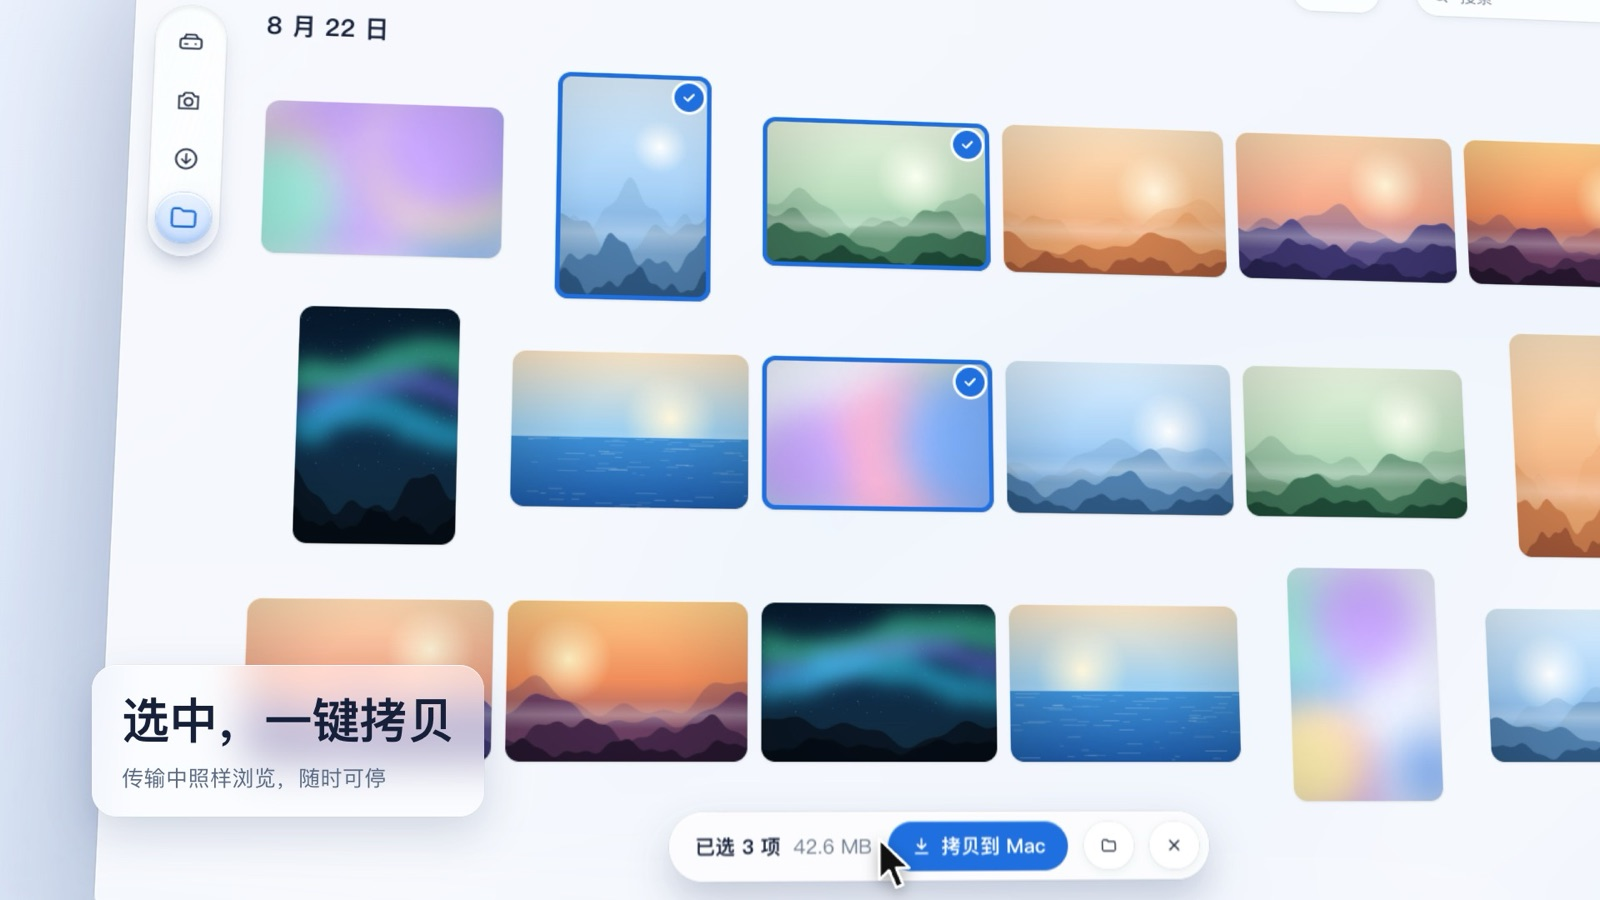
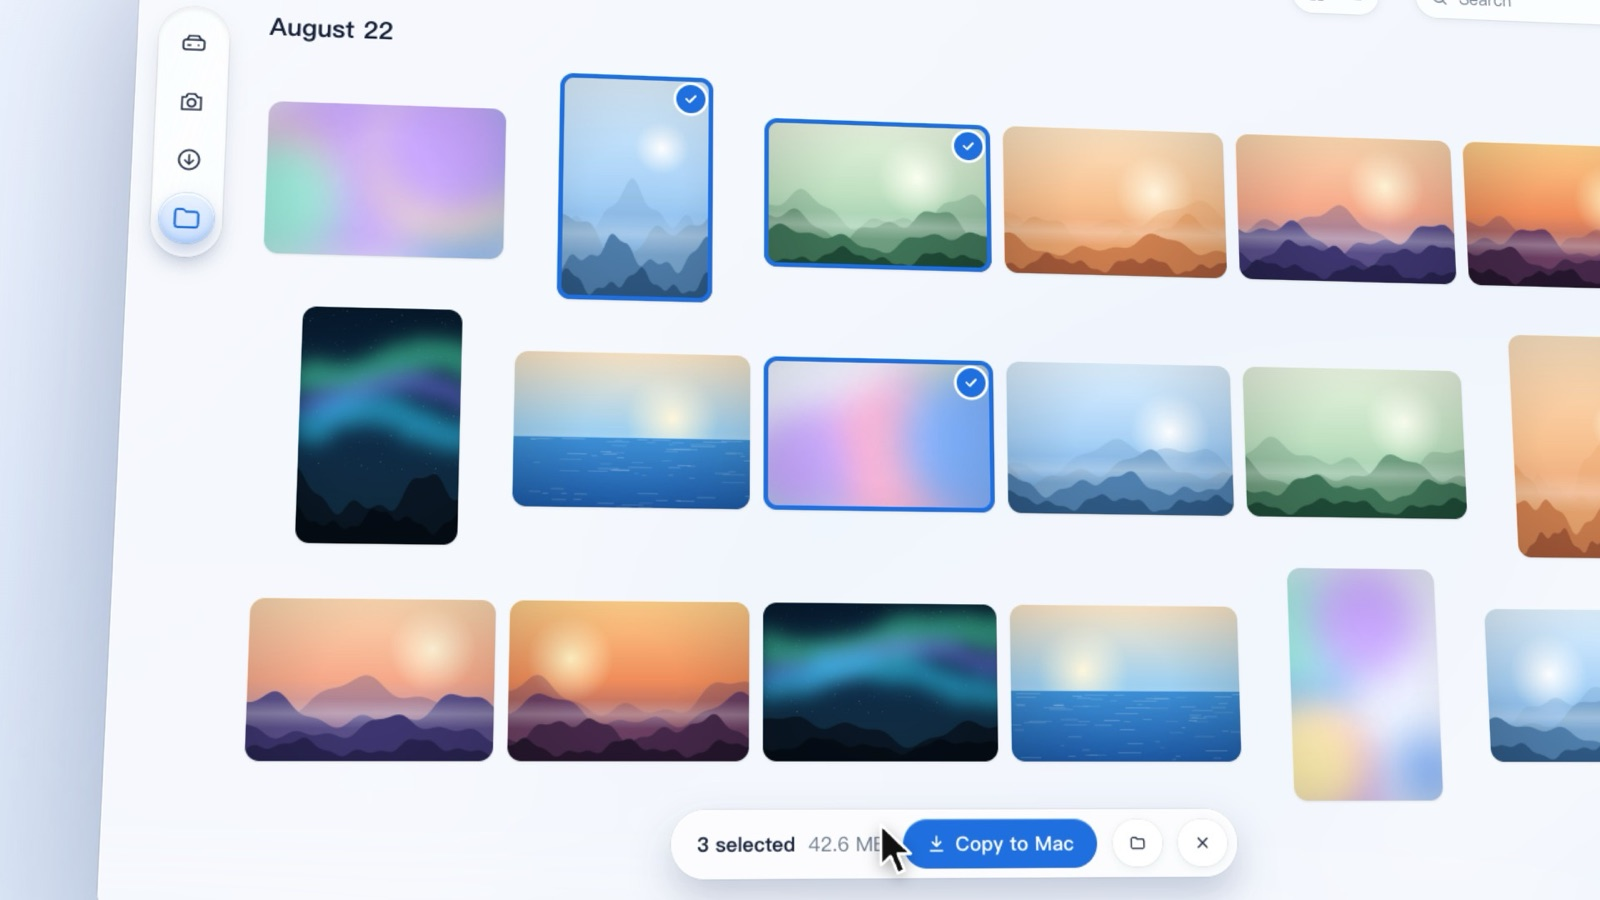
Rename to DropPulse; English and Chinese READMEs
- App, bundle id (io.github.zjulhc-pixel.droppulse), menus, cache folder and
  sources are now DropPulse.
- README is English only, with a separate Chinese README; proper nouns such as
  Android and Mac stay in English in both.
- The README image shows the English interface without captions.

diff --git a/Sources/DropPulse/Store.swift b/Sources/DropPulse/Store.swift
@@ -7,7 +7,7 @@ enum ViewMode: String { case icons, list }
 
 /// User preferences, shared with `@AppStorage` in SettingsView.
 enum Prefs {
-    static var importFolder: URL { folder("importFolder", .picturesDirectory, "Droplet") }
+    static var importFolder: URL { folder("importFolder", .picturesDirectory, "DropPulse") }
     static var copyFolder: URL { folder("copyFolder", .downloadsDirectory, nil) }
     static var showHidden: Bool { UserDefaults.standard.bool(forKey: "showHidden") }
     static var revealAfterCopy: Bool { UserDefaults.standard.object(forKey: "revealAfterCopy") as? Bool ?? true }
@@ -89,7 +89,7 @@ enum Prefs {
     var creatingFolder = false
     var replacePrompt: (count: Int, answer: CheckedContinuation<Bool?, Never>)?
 
-    let cacheDir = FileManager.default.urls(for: .cachesDirectory, in: .userDomainMask)[0].appending(path: "Droplet")
+    let cacheDir = FileManager.default.urls(for: .cachesDirectory, in: .userDomainMask)[0].appending(path: "DropPulse")
     private var takenCache: [String: Double] = [:]       // capture time, or emptyMark
     private(set) var emptyFiles = Set<String>()          // all zeros on the phone (unfinished copies): hidden
     private static let emptyMark = -1.0
@@ -124,7 +124,7 @@ enum Prefs {
                     let serial = MTP.serial(of: service)
                     // macOS's image capture daemon grabs phones as they're plugged in. It restarts on
                     // demand, so it is safe to stop; any other app is left alone and named instead.
-                    if let owner = MTP.owner(of: service), owner.name != "Droplet" {
+                    if let owner = MTP.owner(of: service), owner.name != "DropPulse" {
                         if owner.name == "ptpcamerad" {
                             kill(owner.pid, SIGKILL)
                             try? await Task.sleep(for: .milliseconds(200))
@@ -396,7 +396,7 @@ enum Prefs {
             transfer.total = files.reduce(0) { $0 + $1.item.size }
             // Copy into a staging folder on the same volume, then move with Finder-style
             // unique names, so nothing on the Mac is ever overwritten or left half-written.
-            let stage = folder.appending(path: ".droplet-\(UUID().uuidString)")
+            let stage = folder.appending(path: ".droppulse-\(UUID().uuidString)")
             defer { try? FileManager.default.removeItem(at: stage) }
             for (item, relative) in files {
                 let target = stage.appending(path: relative)

diff --git a/Sources/DropPulse/DropPulseApp.swift b/Sources/DropPulse/DropPulseApp.swift
@@ -2,17 +2,17 @@ import ServiceManagement
 import SwiftUI
 
 @main
-struct DropletApp: App {
+struct DropPulseApp: App {
     @NSApplicationDelegateAdaptor private var delegate: AppDelegate
     private let store = Store.shared
 
     var body: some Scene {
-        Window("Droplet", id: "main") {
+        Window("DropPulse", id: "main") {
             RootView()
         }
         .defaultSize(width: 1120, height: 740)
         .defaultLaunchBehavior(.suppressed)          // MenuBarIcon decides: not when started at login
-        .commands { DropletCommands(store: store) }
+        .commands { DropPulseCommands(store: store) }
 
         MenuBarExtra {
             MenuPanel()
@@ -27,7 +27,7 @@ struct DropletApp: App {
     }
 }
 
-/// Droplet starts at login and waits in the menu bar, so plugging in a phone opens it.
+/// DropPulse starts at login and waits in the menu bar, so plugging in a phone opens it.
 final class AppDelegate: NSObject, NSApplicationDelegate {
     @MainActor static var launch: (done: Bool, atLogin: Bool) = (false, false)
 
@@ -77,7 +77,7 @@ private struct MenuBarIcon: View {
     }
 }
 
-private struct DropletCommands: Commands {
+private struct DropPulseCommands: Commands {
     let store: Store
     @AppStorage("sidebarMode") private var sidebarMode = SidebarMode.full
 
@@ -154,8 +154,8 @@ struct SettingsView: View {
             }
             Section {
                 Toggle(isOn: $openOnConnect) {
-                    Text("Open Droplet when a phone connects")
-                    Text("Droplet waits in the menu bar after you log in.")
+                    Text("Open DropPulse when a phone connects")
+                    Text("DropPulse waits in the menu bar after you log in.")
                 }
                 .onChange(of: openOnConnect) { AppDelegate.updateLoginItem() }
                 Toggle("Show hidden files", isOn: $showHidden)

diff --git a/Sources/DropPulse/MTP.swift b/Sources/DropPulse/MTP.swift
@@ -31,7 +31,7 @@ struct MTPError: LocalizedError {
     init(_ message: String) { errorDescription = message }
 }
 
-/// A small MTP initiator on top of IOUSBHost — just what Droplet needs from an Android phone.
+/// A small MTP initiator on top of IOUSBHost — just what DropPulse needs from an Android phone.
 /// The actor runs on its own serial queue, so blocking USB I/O never stalls Swift's thread pool.
 /// Large reads are split into chunks with a yield between them, so browsing and thumbnails
 /// keep flowing while a transfer runs.
@@ -39,7 +39,7 @@ actor MTP {
     nonisolated let name: String
     nonisolated let serial: String
 
-    private let queue = DispatchSerialQueue(label: "droplet.mtp")
+    private let queue = DispatchSerialQueue(label: "droppulse.mtp")
     nonisolated var unownedExecutor: UnownedSerialExecutor { queue.asUnownedSerialExecutor() }
 
     private let interface: IOUSBHostInterface

diff --git a/Sources/DropPulse/Thumbs.swift b/Sources/DropPulse/Thumbs.swift
@@ -191,7 +191,7 @@ final class PhoneAsset: AVURLAsset, @unchecked Sendable {
 
     init(_ item: PhoneItem, _ mtp: MTP) {
         loader = Loader(item: item, mtp: mtp)
-        super.init(url: URL(string: "droplet://\(item.handle)/video.\(item.ext)")!, options: nil)
+        super.init(url: URL(string: "droppulse://\(item.handle)/video.\(item.ext)")!, options: nil)
         resourceLoader.setDelegate(loader, queue: .global(qos: .userInitiated))
     }
 

diff --git a/Sources/DropPulse/Browser.swift b/Sources/DropPulse/Browser.swift
@@ -459,7 +459,7 @@ private struct VideoSheet: View {
 // MARK: - Drag and drop
 
 extension UTType {
-    static let phoneItem = UTType(exportedAs: "app.droplet.phone-item")
+    static let phoneItem = UTType(exportedAs: "io.github.zjulhc-pixel.droppulse.phone-item")
 }
 
 extension PhoneItem: Transferable {

diff --git a/Sources/DropPulse/Panels.swift b/Sources/DropPulse/Panels.swift
@@ -222,7 +222,7 @@ struct MenuPanel: View {
             }
 
             HStack {
-                Button("Open Droplet") {
+                Button("Open DropPulse") {
                     openWindow(id: "main")
                     NSApp.activate()
                 }

diff --git a/Package.swift b/Package.swift
@@ -2,7 +2,7 @@
 import PackageDescription
 
 let package = Package(
-    name: "Droplet",
+    name: "DropPulse",
     platforms: [.macOS(.v26)],
-    targets: [.executableTarget(name: "Droplet")]
+    targets: [.executableTarget(name: "DropPulse")]
 )

diff --git a/README.zh-CN.md b/README.zh-CN.md
@@ -1,58 +1,67 @@
-# Droplet
+# DropPulse
 
-[English](README.md) · 中文
+[English](README.md) · 简体中文
 
-在 Mac 和 Android 手机之间传文件的原生 macOS App。界面用 SwiftUI 和 Liquid Glass 实现，MTP 通信是基于系统 IOUSBHost 框架自己写的，不依赖任何第三方库。项目最初基于 [OpenMTP](https://github.com/ganeshrvel/openmtp)。
+**Android 与 Mac 之间，一瞬即达。** DropPulse 是一款原生 macOS 应用，通过 USB 在 Android 手机和 Mac 之间传送照片、视频和文件。插上手机，照片立刻出现，拖出来就完成了。
+
+界面用 SwiftUI 和 Liquid Glass 构建；MTP 通信直接基于 Apple 的 IOUSBHost 框架实现：不依赖第三方库，不需要内核扩展，手机端也不用安装任何东西。
+
+![DropPulse](docs/hero.jpg)
+
+## 快
+
+- **文件夹秒开**：一次 MTP 请求（`GetObjectPropList`）读完整个文件夹，相机里 1,956 个项目只需 0.4 秒。
+- **缩略图毫秒级**：每张照片只读取开头 128 KB，取出相机写在 Exif 里的 JPEG 小图，每张约 2 毫秒。哈苏等相机拍的 HEIC 会改用文件内的 HEIF 预览图；JPEG 会退而使用 MTP `GetThumb`；视频只读取索引和第一帧。
+- **最高 160 MB/s**：传输分块进行，随时可以停止，传输期间照常浏览。
+- **视频边读边播**：不用先拷贝到 Mac。
+
+## 省心
+
+- **插上就打开**：登录后在菜单栏待命，手机一连上就自动打开窗口。macOS 自带的 `ptpcamerad` 会抢占 MTP 设备，DropPulse 会自动把手机接管回来。
+- **拷贝不覆盖**：绝不覆盖 Mac 上已有的文件。名称和大小都相同的直接跳过，其余按访达的方式自动改名（`IMG 2.jpg`）。
+- **按拍摄日期分组**：拍摄时间优先从相机文件名读取；文件名里没有时间的，在后台读取 Exif 里的 `DateTimeOriginal` 并缓存。
+- **一键导入新照片**：工具栏、菜单栏面板或快捷键 ⇧⌘I 都可以触发。
+- **Liquid Glass 边栏**：可以收成一座悬浮的玻璃浮岛，切换文件夹时，选中透镜会先拉伸、再回弹到位。
+
+## 系统要求
+
+- Apple 芯片，macOS 26 或更高版本
+- 已解锁、USB 模式设为"文件传输"的 Android 手机
 
 ## 构建
 
-只装 Command Line Tools 就能构建，不需要 Xcode。系统要求 macOS 26 及以上，Apple 芯片。
+只需要命令行工具（Command Line Tools），不需要 Xcode：
 
 ```bash
 ./build.sh
-open build/Droplet.app
+open build/DropPulse.app
 ```
 
-## 功能
+把 `build/DropPulse.app` 拷贝到"应用程序"文件夹后，它才会注册为登录项，开机自动在菜单栏待命。
 
-- **连接**：Droplet 登录后在菜单栏待命，插上手机就自动打开窗口，拔掉后自动断开。手机锁屏时会提示先解锁，解锁后自动继续。这个行为可以在设置里关闭。
-- **边栏**：有三种状态：完整、仅图标（浮动的玻璃竖条，⌥⌘S 切换）、全部收起（⌃⌘S）。
-- **浏览**：
-  - 相机这类以照片、视频为主的文件夹，用照片网格显示，并按**拍摄日期**分组。拍摄时间优先从文件名读取（如 `IMG20260607175302`）；文件名里没有时间的（如哈苏 `B0004665_91`），后台读 Exif 里的拍摄时间，并缓存在 Mac 上。
-  - 其他文件夹用图标显示，也可以切换成可排序的列表。
-  - 读过的文件夹会缓存下来，再次打开时立即显示，后台再刷新。
-- **缩略图**：
-  - 照片：只读取文件开头 128 KB，取出相机写在 Exif 里的小图，每张约 2 毫秒。如果没有 Exif 小图，HEIC 会改读文件内单独存的预览图（哈苏等相机会带），JPG 会直接向手机要缩略图。这些都没有时才解码原图。
-  - 视频：只读取索引和第一帧。
-  - 生成过的缩略图存在磁盘上，下次直接用。
-- **手机 → Mac**：
-  - 支持选择栏、右键菜单，或直接拖到 Finder。
-  - 不会覆盖 Mac 上已有的文件：同名且大小相同的直接跳过；同名但内容不同的会自动改名，比如 `IMG 2.jpg`。
-- **Mac → 手机**：把文件拖进窗口，或拖到边栏里的 Android 文件夹即可发送。遇到同名文件时可以选择替换或跳过。
-- **导入新照片**：第一次连接时记下当时的时间，之后新拍的照片和视频可以一键导入到“图片/Droplet”。工具栏、菜单栏面板和快捷键 ⇧⌘I 都能触发。
-- **视频**：边读边播，不用先拷贝到 Mac。
-- **其他**：
-  - 按空格键快速查看文件。
-  - 传输可以随时停止，传输期间也能继续浏览。
-  - 可以在手机上新建文件夹、重命名和删除。
-  - 菜单栏面板可以查看设备状态、导入新照片、查看最近的传输记录。
-
-## 代码结构
+## 实现方式
 
 | 文件 | 作用 |
 | --- | --- |
-| `MTP.swift` | 基于 IOUSBHost 的精简 MTP 实现：批量读取目录、按范围读取文件、分块传输、上传、重命名、删除。 |
-| `Store.swift` | 应用状态：连接、浏览、传输队列、文件操作。 |
-| `Thumbs.swift` | 生成照片缩略图（Exif 内嵌小图）和视频首帧，以及边读边播用的视频数据源。 |
-| `Browser.swift` | 网格视图、列表视图、浮动选择栏、拖放。 |
-| `Sidebar.swift` | 窗口根视图、边栏、对话框。 |
-| `Panels.swift` | 首次连接页、传输进度、菜单栏面板。 |
-| `DropletApp.swift` | 场景、菜单命令、设置。 |
+| `MTP.swift` | 基于 IOUSBHost 的精简 MTP 实现：会话恢复、读取文件夹、按范围读取、分块下载、流式上传、重命名和删除。它运行在独立的串行队列上，阻塞的 USB 读写不会卡住 Swift 的线程池。 |
+| `Thumbs.swift` | 从 Exif、HEIF 预览图和 `GetThumb` 生成缩略图，生成视频首帧，以及基于按范围读取的视频流式播放。 |
+| `Store.swift` | 应用状态：连接、浏览、拍摄日期、传输队列和文件操作。 |
+| `Browser.swift` | 照片网格与列表、悬浮选择栏、拖放、视频播放器。 |
+| `Sidebar.swift` | 窗口根视图、边栏及玻璃浮岛、对话框。 |
+| `Panels.swift` | 连接引导页、传输进度、菜单栏面板。 |
+| `DropPulseApp.swift` | 场景、菜单命令、设置和登录项。 |
 
-## 图标
+应用图标和菜单栏图标都由 `scripts/make-icon.swift` 以矢量方式绘制。
 
-App 图标和菜单栏图标都由 `scripts/make-icon.swift` 用矢量绘制，生成 `Resources/AppIcon.icns` 和 `Resources/MenuBarTemplate.pdf`。修改设计后，删掉 `AppIcon.icns` 再运行 `./build.sh`，就会全部重新生成。
+## 说明
+
+- 测试机型为 OPPO Find X9 Ultra（ColorOS）。其他 Android 手机使用相同的 MTP 协议，欢迎反馈使用情况。
+- 同一时间只能有一个应用通过 MTP 使用手机。DropPulse 连接期间，请退出 Android File Transfer 或 OpenMTP。
 
 ## 致谢
 
-界面和交互最初参考了 OpenMTP（© Ganesh Rathinavel，MIT 许可），现在的代码已经不包含 OpenMTP 的任何部分。
+灵感来自 Ganesh Rathinavel 的 [OpenMTP](https://github.com/ganeshrvel/openmtp)。最初的原型使用过它的 Kalam 内核，现在的代码已不包含其任何部分。设计参考：Dribbble 上 Andrii Vynarchyk 的"Liquid glass"，以及 Webflow 上 Rishabh Rai 的"Glass Button UI"。
+
+## 许可证
+
+[MIT](LICENSE)

diff --git a/README.md b/README.md
@@ -1,63 +1,66 @@
-# Droplet
+# DropPulse
 
-English · [中文](README.zh-CN.md)
+English · [简体中文](README.zh-CN.md)
 
-A native macOS app for moving photos, videos and files between an Android phone and a Mac over USB. Built with SwiftUI and Liquid Glass, with a small MTP implementation written directly on Apple's IOUSBHost framework — no third-party libraries, no kernel extensions, nothing to install on the phone.
+**Android ↔ Mac file transfer in a pulse.** DropPulse is a native macOS app for moving photos, videos and files between an Android phone and a Mac over USB. Plug the phone in, see your photos instantly, drag them out.
 
-![Droplet](docs/hero.jpg)
+It is built with SwiftUI and Liquid Glass, on a small MTP implementation written directly against Apple's IOUSBHost framework: no third-party libraries, no kernel extensions, nothing to install on the phone.
 
-## Why
+![DropPulse](docs/hero.jpg)
 
-Android File Transfer is gone and the alternatives feel dated. Droplet aims to feel like a first-party Mac app: plug the phone in, see your photos instantly, drag them out.
+## Fast
 
-## Highlights
+- **Folders open in a blink.** A whole folder is read in one MTP request (`GetObjectPropList`): 1,956 camera items in 0.4 s.
+- **Thumbnails in milliseconds.** DropPulse reads only the first 128 KB of each photo to get the JPEG thumbnail the camera embeds in its Exif block, about 2 ms each. HEIC files from cameras such as Hasselblad use their HEIF preview item, JPEG files fall back to MTP `GetThumb`, and videos read just their index and first frame.
+- **Up to 160 MB/s.** Transfers are chunked and can be stopped at any time, and browsing keeps working while they run.
+- **Videos play while they stream.** Nothing is copied first.
 
-- **Fast browsing** — a whole folder is read in one MTP request (`GetObjectPropList`): 1,956 camera items in 0.4 s.
-- **Instant thumbnails** — reads only the first 128 KB of each photo to pull the JPEG thumbnail the camera embeds in its Exif block (~2 ms each). HEIC files from cameras like Hasselblad use their HEIF preview item; JPEGs fall back to MTP `GetThumb`; videos read just their index and first frame.
-- **Stream videos** — play phone videos while they stream over USB; nothing is copied first.
-- **Safe copies** — never overwrites anything on the Mac: identical files are skipped, others get Finder-style names (`IMG 2.jpg`). Transfers are chunked, cancellable, and browsing keeps working while they run.
-- **Grouped by capture date** — from camera file names, or Exif `DateTimeOriginal` read in the background and cached.
-- **Liquid Glass UI** — a floating glass sidebar island whose selection lens stretches and springs between folders; a menu bar panel for new photos and recent transfers.
-- **Opens when you plug in** — waits in the menu bar after login and opens its window when a phone connects. It also takes the phone back from macOS's `ptpcamerad`, which otherwise grabs MTP devices.
+## Effortless
+
+- **Opens when you plug in.** DropPulse waits in the menu bar after login and opens its window when a phone connects. It also takes the phone back from macOS's `ptpcamerad`, which otherwise claims MTP devices.
+- **Safe copies.** Nothing on the Mac is ever overwritten: identical files are skipped and others get Finder-style names (`IMG 2.jpg`).
+- **Grouped by when photos were taken.** Dates come from camera file names, or from Exif `DateTimeOriginal` read in the background and cached.
+- **Import new photos in one click** from the toolbar, the menu bar panel, or ⇧⌘I.
+- **A Liquid Glass sidebar.** It folds into a floating glass island whose selection lens stretches and springs between folders.
 
 ## Requirements
 
-- macOS 26 or later, Apple silicon
-- An Android phone set to **File transfer** mode, unlocked
+- macOS 26 or later on Apple silicon
+- An unlocked Android phone in **File transfer** mode
 
 ## Build
 
-Only the Command Line Tools are needed — no Xcode:
+Only the Command Line Tools are needed, not Xcode:
 
 ```bash
 ./build.sh
-open build/Droplet.app
+open build/DropPulse.app
 ```
 
-Copy `build/Droplet.app` to `/Applications` to have it start at login (it only registers itself as a login item from there).
+Copy `build/DropPulse.app` to `/Applications` to have it start at login. It only registers itself as a login item from there.
 
 ## How it works
 
 | File | What it does |
 | --- | --- |
-| `MTP.swift` | A small MTP initiator on IOUSBHost: session recovery, folder listings, ranged reads, chunked downloads, streamed uploads, rename, delete. It runs on its own serial queue so blocking USB I/O never stalls Swift's thread pool. |
-| `Thumbs.swift` | Thumbnails from Exif / HEIF previews / GetThumb, video frames, and an `AVAssetResourceLoader` that streams video over ranged reads. |
-| `Store.swift` | App state: connection, browsing, capture dates, the transfer queue, file operations. |
-| `Browser.swift` | Photo grid and list, the floating selection bar, drag and drop, the video player. |
-| `Sidebar.swift` | Window root, the sidebar and its glass island, dialogs. |
-| `Panels.swift` | Connect guide, transfer progress, menu bar panel. |
-| `DropletApp.swift` | Scenes, menu commands, settings, login item. |
+| `MTP.swift` | A small MTP initiator on IOUSBHost: session recovery, folder listings, ranged reads, chunked downloads, streamed uploads, rename and delete. It runs on its own serial queue, so blocking USB I/O never stalls Swift's thread pool. |
+| `Thumbs.swift` | Thumbnails from Exif, HEIF previews and `GetThumb`, video frames, and an `AVAssetResourceLoader` that streams video over ranged reads. |
+| `Store.swift` | App state: connection, browsing, capture dates, the transfer queue and file operations. |
+| `Browser.swift` | The photo grid and list, the floating selection bar, drag and drop, and the video player. |
+| `Sidebar.swift` | The window root, the sidebar and its glass island, and dialogs. |
+| `Panels.swift` | The connect guide, transfer progress and the menu bar panel. |
+| `DropPulseApp.swift` | Scenes, menu commands, settings and the login item. |
 
-The app and menu bar icons are drawn as vectors by `scripts/make-icon.swift`.
+The app icon and the menu bar icon are drawn as vectors by `scripts/make-icon.swift`.
 
 ## Notes
 
-- Tested with an OPPO Find X9 Ultra (ColorOS). Other Android phones speak the same MTP dialect, but reports are welcome.
-- Only one app can use the phone over MTP at a time; quit Android File Transfer or OpenMTP while Droplet is connected.
+- Tested with an OPPO Find X9 Ultra running ColorOS. Other Android phones speak the same MTP dialect, and reports are welcome.
+- Only one app can use a phone over MTP at a time. Quit Android File Transfer or OpenMTP while DropPulse is connected.
 
 ## Credits
 
-Inspired by [OpenMTP](https://github.com/ganeshrvel/openmtp) by Ganesh Rathinavel; the first prototype used its Kalam kernel. The current code contains no OpenMTP code. Design references: "Liquid glass" by Andrii Vynarchyk (Dribbble) and "Glass Button UI" by Rishabh Rai (Webflow).
+Inspired by [OpenMTP](https://github.com/ganeshrvel/openmtp) by Ganesh Rathinavel; the first prototype used its Kalam kernel, and the current code contains none of it. Design references: "Liquid glass" by Andrii Vynarchyk on Dribbble and "Glass Button UI" by Rishabh Rai on Webflow.
 
 ## License
 
